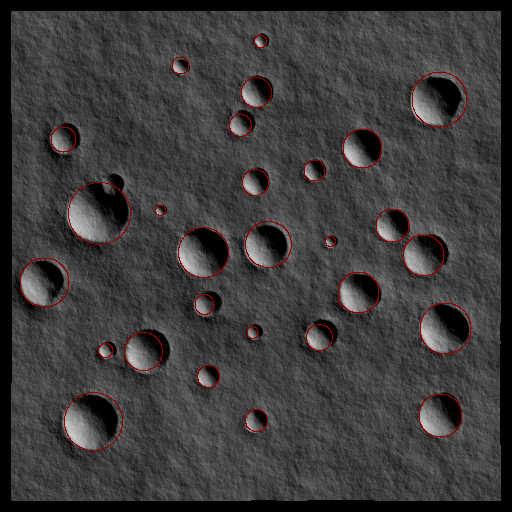
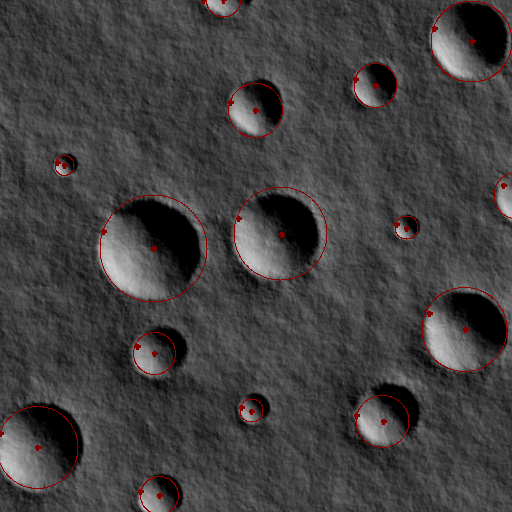
Started fitting ellipse to crater

diff --git a/Preprocessor.py b/Preprocessor.py
@@ -1,5 +1,6 @@
 import numpy as np
 
+import math
 import scipy.cluster.hierarchy as hcluster
 from PIL import Image
 from PIL import ImageDraw
@@ -43,33 +44,61 @@ def retrieveCraterClusters(array):
     return sortedclusters
 
 
+def rotatePointAround(rightpoint, middlepoint):
+    print "rightpoint= {}, middlepoint= {}".format(rightpoint, middlepoint)
+    rotationpoint = np.array([rightpoint[0] - middlepoint[0], rightpoint[1]-middlepoint[1]])
+    theta = math.radians(90)
+    c, s = np.cos(theta), np.sin(theta)
+    rotationMatrix = np.matrix('{} {}; {} {}'.format(c, -s, s, c))
+    rotationpoint = np.dot(rotationMatrix, rotationpoint)
+    rotationpoint = rotationpoint.tolist()[0]
+    rotationpoint = [rotationpoint[0]+middlepoint[0], rotationpoint[1]+middlepoint[1]]
+    return rotationpoint
+
+
+
+
+def retrieveSemiMinorAxis(fartestpoints, middlepoint, draw):
+    rightpoint =[]
+    if (fartestpoints[0][0] > fartestpoints[1][0]):
+        rightpoint = fartestpoints[0]
+    else:
+        rightpoint = fartestpoints[1]
+    rotatedpoint = rotatePointAround(rightpoint, middlepoint)
+    viewer.drawpoint(draw, middlepoint, 6)
+    # viewer.drawpoint(draw, (rotatedpoint[1], rotatedpoint[0]), 6)
+
 
 
 def drawFoundCraters(sortedclusters, imagematrix, im):
-    centerpoints = {}
     draw = ImageDraw.Draw(im)
-    edges = []
+    # edges = []
     for (k, v) in sortedclusters.items():
-        edgecluster = viewer.findEdges(v, imagematrix)
-        map(lambda x: edges.append(x), edgecluster)
-        val = viewer.searchForFartestPoint(edgecluster)
-        middlepoints = val[1]
-        diameter = 1.35 * val[0]
-        # diameter = (4*np.sqrt(len(v)/3.14) + 1.4*val[0])/2
-        # diameter = (4*np.sqrt(len(v)/3.14) + 1.4*val[0])/2
-        r = diameter / 2
-        y = ((middlepoints[0][0] + middlepoints[1][0]) / 2) - diameter / 8
-        x = ((middlepoints[0][1] + middlepoints[1][1]) / 2) + diameter / 4
-        centerpoints[k] = np.array([x, y])
-        bbox = (x - r, y - r, x + r, y + r)
-        # draw.ellipse(bbox, fill=None, outline=400)
-        im = viewer.draw_ellipse(im, bbox, width=4)
+        edgecluster = viewer.findEdges(v, imagematrix) #Retrieves map of edgepoints in each cluster.
+        # map(lambda x: edges.append((x[0],x[1])),edgecluster)
+        # map(lambda x: viewer.drawpoint(draw, (x[1], x[0]), 6), edgecluster)
+        distance, fartestpoints = viewer.searchForFartestPoint(edgecluster) #Search for fartestpoint in cluster for diameter determination.
+        viewer.drawpoint(draw, (fartestpoints[0][1],fartestpoints[0][0]), 6)
+        # viewer.drawpoint(draw, fartestpoints[0], 6)
+        diameter = 1.35 * distance
+        a = diameter / 2
+        x, y = calculateMiddlePoint(diameter, fartestpoints)
+        b = retrieveSemiMinorAxis(fartestpoints, (x,y), draw)
+        bbox = (x - a, y - a, x + a, y + a)
+        # im = viewer.draw_ellipse(im, bbox, width=4) #Thick bounds
+        draw.ellipse(bbox, fill=None, outline=400) #less thick bounds
 
     # viewer.plotClusters(edges)
-    del draw
+    # del draw
     im.save("output.png")
     im.show()
-    return centerpoints
+
+
+def calculateMiddlePoint(diameter, fartestpoints):
+    y = ((fartestpoints[0][0] + fartestpoints[1][0]) / 2) - diameter / 8
+    x = ((fartestpoints[0][1] + fartestpoints[1][1]) / 2) + diameter / 4
+    return x, y
+
 
 def reIndexCenterPoints(centerpoints):
     counter = 1
@@ -159,27 +188,23 @@ def drawDescentImage(upperleftpoint, upperrightpoint, lowerleftpoint, lowerright
     draw.line((lowerrightpoint[0],lowerrightpoint[1], upperrightpoint[0], upperrightpoint[1]), fill = 128, width=5)
     draw.line((middlepoint[0],middlepoint[1]-1, middlepoint[0], middlepoint[1]+1), fill = 128, width= 12)
     draw.line((middlepoint[0]-1,middlepoint[1], middlepoint[0]+1, middlepoint[1]), fill = 128, width= 12)
-    refimage.show()
+    # refimage.show()
 
 
 def locateDescentImageInReferenceImage(imagename):
-    allPossibleCombinations = retrievAllNormVectorsFromReference()
-    viewer.saveCombinations(allPossibleCombinations, "combinations")
+    # allPossibleCombinations = retrievAllNormVectorsFromReference()
+    # viewer.saveCombinations(allPossibleCombinations, "combinations")
 
     allPossibleCombinations = viewer.readCombinations("combinations")
     referenceCenterpoints = viewer.readCombinations("centerpoints")
     im = Image.open(imagename)
-    array,imagematrix = applyPrimaryIlluminationFilter(im)
-    sortedclusters = retrieveCraterClusters(array)
-    # drawFoundCraters(sortedclusters,imagematrix, im)
-    centerpoints, diameters = retrieveAllClusterCenterPoints(sortedclusters, imagematrix)
+    centerpoints = retrieveCraterCenterpointsAndDiameters(im)
     verificationcrater = centerpoints[3]
     smallSet = oneCombinationNormVector(verificationcrater, centerpoints)
     referencecrater = 0
     for (k,values) in allPossibleCombinations.items():
         if (isSubsetOf(smallSet, values, 0.1)):
             referencecrater = referenceCenterpoints[k]
-
             break
     # s = verificationcrater[2]/referencecrater[2]
     s = 2
@@ -192,6 +217,15 @@ def locateDescentImageInReferenceImage(imagename):
     middlepoint = (upperleftpoint+lowerleftpoint+upperrightpoint+lowerrightpoint)/4
 
     drawDescentImage(upperleftpoint, upperrightpoint, lowerleftpoint, lowerrightpoint, middlepoint)
+
+
+def retrieveCraterCenterpointsAndDiameters(im):
+    array, imagematrix = applyPrimaryIlluminationFilter(im)
+    sortedclusters = retrieveCraterClusters(array)
+    drawFoundCraters(sortedclusters,imagematrix, im)
+    centerpoints, diameters = retrieveAllClusterCenterPoints(sortedclusters, imagematrix)
+    return centerpoints
+
 
 #
 

diff --git a/shownp.py b/shownp.py
@@ -16,7 +16,23 @@ def searchForFartestPoint(points):
             if (newdis > maxdis):
                 maxdis = newdis
                 farpoints = [i,j]
+    # farpoints = [[farpoints[0][1], farpoints[0][0]], [farpoints[1][1], farpoints[1][0]]]
     return (maxdis, farpoints)
+
+def findClosestPointTo(point, edgecluster):
+    mindistance = 999
+    closestpoint = edgecluster[1]
+    for point2 in edgecluster:
+        newdis = np.sqrt(np.square(point[0]-point[0]) + np.square(point[1]-point2[1]))
+        if (newdis < mindistance):
+            mindistance = newdis
+            closestpoint = point2
+    return (mindistance, closestpoint)
+
+
+def drawpoint(draw, point, width):
+    draw.line((point[0], point[1] - 1, point[0], point[1] + 1), fill = 128, width = width)
+    draw.line((point[0] - 1, point[1], point[0] + 1, point[1]), fill = 128, width = width)
 
 def findEdges(points, imagematrix):
     edges = []
